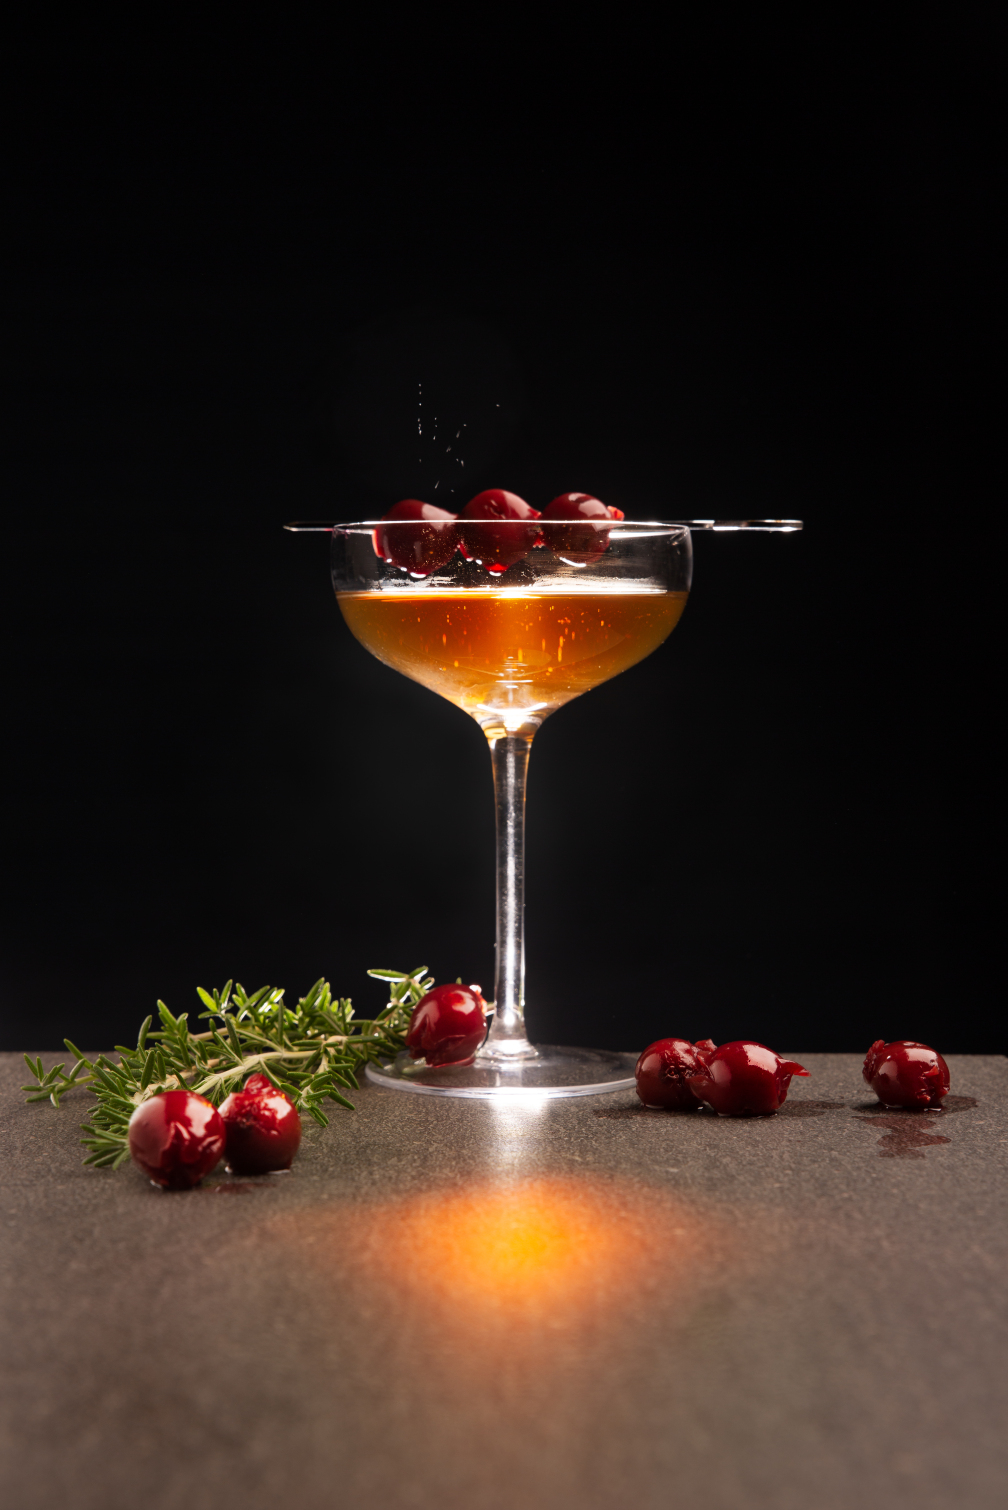
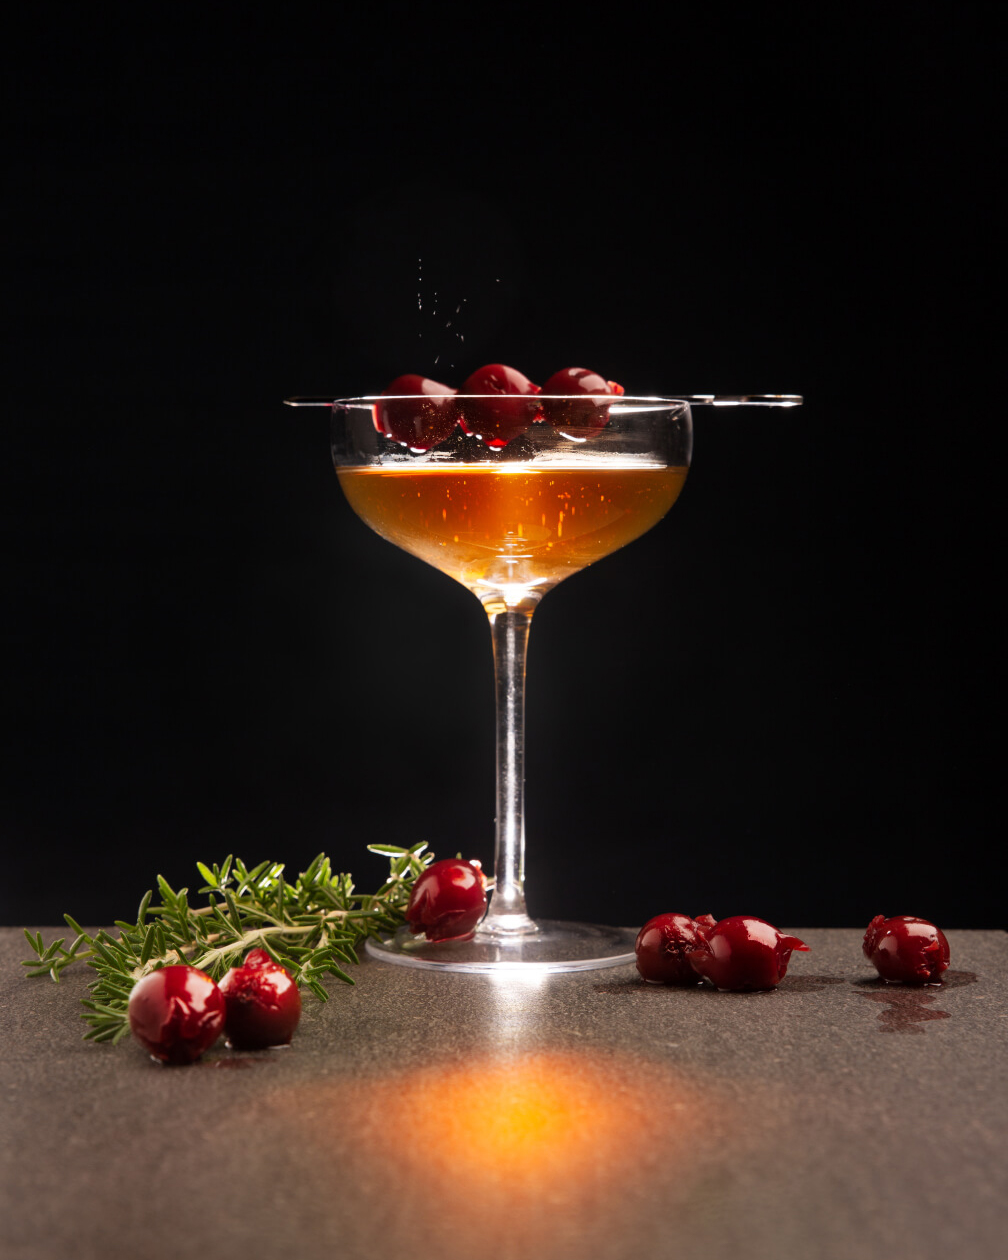
BLOG PAGE content

Changed region(s): [[0.0, 0.2786, 1.0, 1.0], [0.123, 0.9286, 0.1538, 0.9595]]

diff --git a/blog.html b/blog.html
@@ -90,27 +90,45 @@
 
   <div class="news-component">
     <div class="news-copy">
-      <h2> BROWN BUTTER TOFFEE CHOCOLATE CHIP COOKIES</h2>
+      <h2> COCKTAIL PHOTOGRAPHY 101</h2>
 
       <div>
 
-        <p class="highlight"> Lorem ipsum dolor sit amet, consectetur adipiscing elit. Nam vulputate leo nec quam
-          ornare rhoncus.
+        <p class="highlight"> READ MORE.
           </pclass>
+
+        <p> Tips and tricks to how I capture stunning cocktails. I talk all things lighting, composition, props and so much more!.</p>
 
       </div>
     </div>
 
     <div class="new-image">
-      <img src="resources/css/IMAGES/cookies_blog.jpg"
-        alt="stack of caramel choc chip cookies on tray">
+      <img src="resources/css/IMAGES/georgiamcgregor.digitalphotography.jpg"
+        alt="Image of cocktail with cherries">
     </div>
 
 
   </div>
 
 
+  <h2> READ MORE</h2>
 
+  <div class="image-gallery">
+
+    <div class="image-gallery-child">
+      <img src="resources/css/IMAGES/IMG_6BD6A09D4C78-1.jpeg">
+    </div>
+
+    <div class="image-gallery-child">
+      <img src="resources/css/IMAGES/1v4a4023.jpg">
+    </div>
+
+    <div class="image-gallery-child">
+      <img src="resources/css/IMAGES/sonya7iii.jpg">
+    </div>
+
+
+  </div>
   </main>
 
   <footer>

diff --git a/resources/css/style.css b/resources/css/style.css
@@ -21,7 +21,7 @@ body {
 font-weight: 300;
 font-style: normal;
     line-height: 1.5;
-    font-size: 15px;
+    font-size: 18px;
 } 
 
 a{
@@ -53,13 +53,15 @@ h1{
 
 
 h2{color: rgb(63, 62, 62);
-    font-size: 30px;
+    font-size: 40px;
     
     font-family: freight-big-pro, serif;
     
     font-weight: 500;
     
     font-style: normal;
+    text-align: center;
+    
 } 
 
 
@@ -95,7 +97,7 @@ h4{
 
     font-style: normal;
 
-    font-size: 18px;
+    font-size: 20px;
 }
 
 
